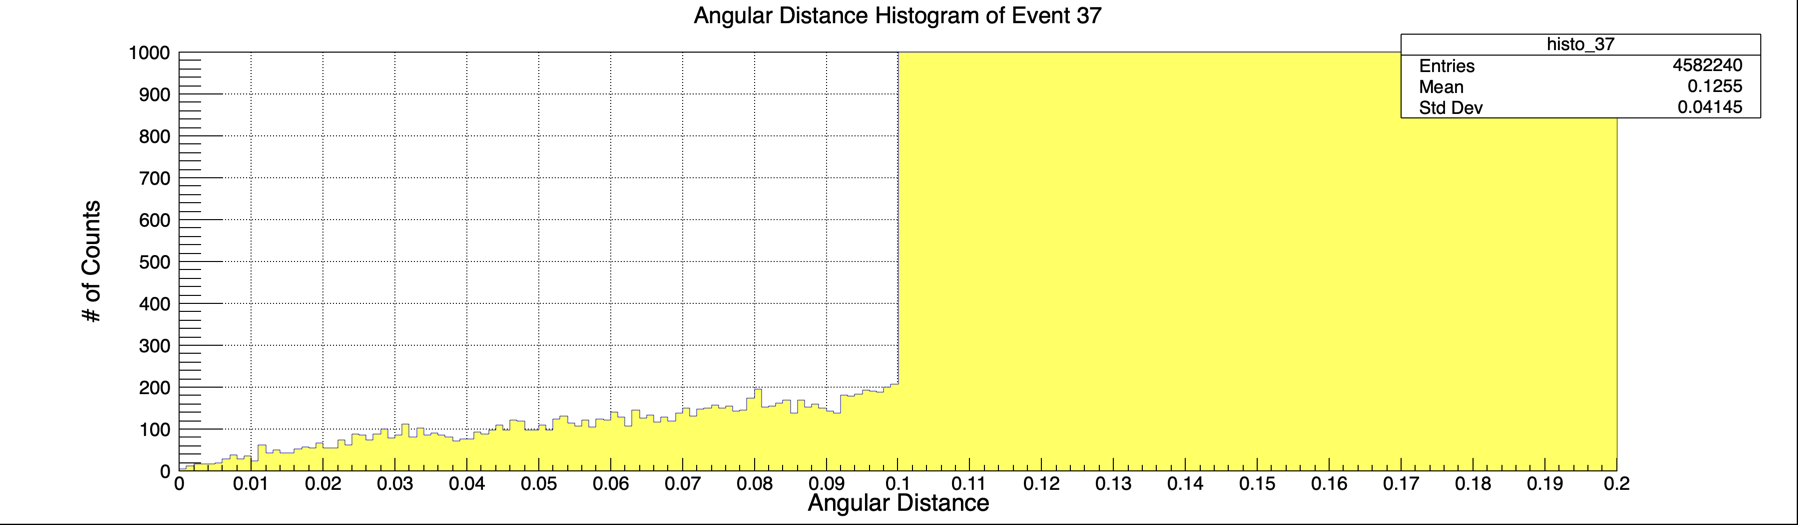
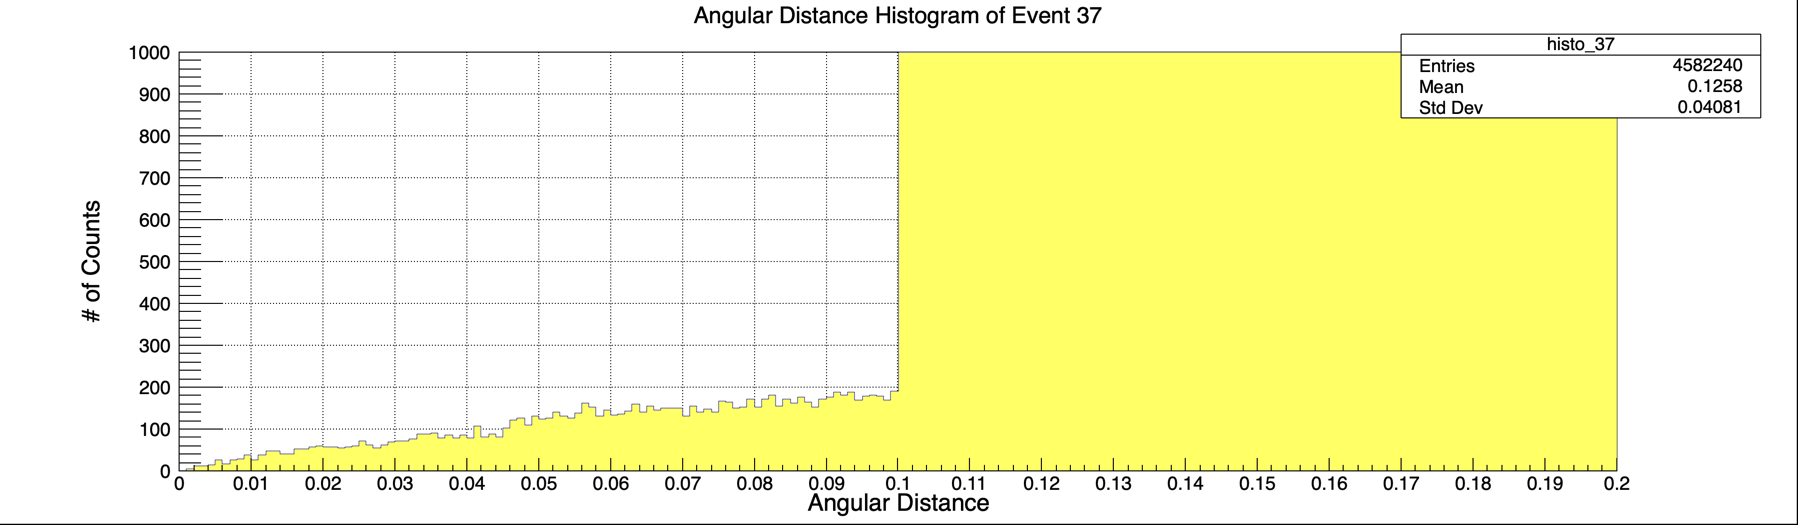
routinely update from work Mac

diff --git a/headers/xyFinding.h b/headers/xyFinding.h
@@ -10,7 +10,7 @@ double gMedian(const TH1D * h1) {
 }
 
 double angularDistance (const int & evt, const vector<myTrackletMember> &t0, const vector<myTrackletMember> &t1) {
-    const int n1 = 300;          // number of bins in [0, 0.1]
+    const int n1 = 100;          // number of bins in [0, 0.1]
     const int n2 = 10;         // number of bins in [0.1, 1.1], [1.1, 2.1], ...
     const int n3 = 8 * n2 + n1; // total number of bins
     float unequal_bins[n3 + 1]; // array of bin edges
@@ -63,14 +63,64 @@ double angularDistance (const int & evt, const vector<myTrackletMember> &t0, con
     h -> GetYaxis() -> SetLabelSize(.04);
     h -> GetYaxis() -> SetTitleOffset(.62);
     h -> GetYaxis() -> CenterTitle(true);
-    h -> GetXaxis() -> SetRangeUser(0, 0.15); // Setting x range;
+    h -> GetXaxis() -> SetRangeUser(0, 0.2); // Setting x range;
     h -> GetYaxis()->SetRangeUser(0, 1000);
     gPad -> SetGrid(1,1); gPad -> Update();
     // gPad -> SetLogx();
     can2 -> SaveAs(Form("./xyFindingPlots/angular_distance_%d.png", evt));
-    // delete can2;
-    // h -> Reset("ICESM");    delete h;   h = 0;
+    delete can2;
+    h -> Reset("ICESM");    delete h;   h = 0;
     
     std::cout << rst << std::endl;
     return rst;
+}
+
+std::pair<double, double> findXY (const int & evt, const vector<myTrackletMember> &t0, const vector<myTrackletMember> &t1, const double &angular_distance_cut, const double &found_z) {
+    TH2D *h_intersection = new TH2D("", "", 900, -4.5, 4.5, 900, -4.5, 4.5);
+    h_intersection -> Sumw2(kFALSE);
+    for (int i = 0; i < t0.size(); i++) {
+        for (int j = 0; j < t1.size(); j++) {
+            double a_d = sqrt(pow(t0[i].eta - t1[j].eta, 2) + pow(t0[i].phi - t1[j].phi, 2));
+            if (a_d <= angular_distance_cut) {
+                double t = (found_z - t0[i].z) / (t1[j].z - t0[i].z);
+                double x_at_found_z = t0[i].x + t * (t1[j].x - t0[i].x);
+                double y_at_found_z = t0[i].y + t * (t1[j].y - t0[i].y);
+                h_intersection -> Fill(x_at_found_z, y_at_found_z);
+            }       
+        }
+    }
+
+    TH1D *h_proj_x = h_intersection -> ProjectionX("h_proj_x");
+    TH1D *h_proj_y = h_intersection -> ProjectionY("h_proj_y");
+    double median_x = gMedian(h_proj_x);
+    double median_y = gMedian(h_proj_y);
+    TCanvas *canvas = new TCanvas("canvas", "Classifier output", 800, 600);
+    h_intersection -> Draw("colz");
+    // h_intersection -> GetYaxis() -> SetRangeUser(-0.1, 0.1);
+    // h_intersection -> GetXaxis() -> SetRangeUser(-0.1, 0.1);
+    h_intersection -> GetXaxis() -> SetTitle("X (cm)");
+    h_intersection -> GetYaxis() -> SetTitle("Y (cm)");
+    h_intersection -> GetYaxis() -> SetTitleOffset(1);
+    h_intersection -> GetXaxis() -> SetTitleSize(0.05);
+    h_intersection -> GetYaxis() -> SetTitleSize(0.05); 
+    h_intersection -> SetTitle(Form("#splitline{Data from event #%d}{      Angular Separation cut at %1.3f}", evt, angular_distance_cut));
+    gStyle -> SetTitleSize(0.032, "t");
+    h_intersection -> GetXaxis() -> CenterTitle(true);
+    h_intersection -> GetYaxis() -> CenterTitle(true);
+    Color_t colorS = kTeal - 7;
+    TMarker *markerS = new TMarker(0, 0, 21); // 8 is the default marker style for TH2D
+    markerS->SetMarkerColor(colorS);
+    h_intersection -> SetMarkerColor(colorS);
+    TLegend *lg = new TLegend(0.12, 0.8, 0.7, 0.9);
+    lg -> AddEntry(markerS, Form("Found x and y vertex at: %1.5f, %1.5f (cm)", median_x, median_y), "P");
+    gStyle -> SetLegendTextSize(.03);
+    lg -> Draw("same");
+    canvas -> SaveAs(Form("xyFindingPlots/event_%d.png", evt));
+    // delete canvas;
+    // h_intersection -> Reset("ICESM");
+    // h_proj_y -> Reset("ICESM");
+    // h_proj_x -> Reset("ICESM");
+    // delete h_intersection;  delete h_proj_x;    delete h_proj_y;
+    // h_intersection = 0; h_proj_x = 0;   h_proj_y = 0;
+    return std::make_pair(median_x, median_y);
 }

diff --git a/INTT_xyFinding.C b/INTT_xyFinding.C
@@ -70,7 +70,7 @@ void single_xyFinding (TTree *EventTree, Int_t target, std::vector<std::string> 
                     // r   = std::sqrt(std::pow(ClusX->at(k), 2) + std::pow(ClusY->at(k), 2));
                     r   = std::sqrt(std::pow(ClusX->at(k) - TruthPV_x->at(0), 2) + std::pow(ClusY->at(k) - TruthPV_y->at(0), 2));
                     phi = std::atan2(ClusY->at(k), ClusX->at(k));
-                    for (int l = 0; l <= 3; l++) {
+                    for (int l = 0; l <= 32; l++) {
                         currentZ         = ClusZ->at(k) + l*0.05;
                         // dZ               = currentZ - foundz[j];
                         dZ               = currentZ - TruthPV_z->at(0);
@@ -94,7 +94,8 @@ void single_xyFinding (TTree *EventTree, Int_t target, std::vector<std::string> 
                 std::cout << evt[j] << "," << event << "," << idx[j] << "," << i << "," 
                           << foundz[j] << "," << TruthPV_z->at(0) << "," << tracklet_layer_0[0].eta << "," << tracklet_layer_1[0].eta
                           << std::endl;
-                double hi = angularDistance(evt[j], tracklet_layer_0, tracklet_layer_1);
+                // double adCut = angularDistance(evt[j], tracklet_layer_0, tracklet_layer_1);
+                std::pair<double, double> found_xy = findXY(evt[j], tracklet_layer_0, tracklet_layer_1, 0.1, foundz[j]);
                 tracklet_layer_0.clear();   tracklet_layer_1.clear();
                 break;
             }

diff --git a/headers/zFinding.h b/headers/zFinding.h
@@ -141,7 +141,7 @@ double DCA_npeaks (const int &evt, const std::vector<myTrackletMember> &t0, cons
     // auto h = std::make_unique<TH1D>("", "", bins, zmin - scanstep/2, zmax + scanstep/2);
     TH1D *h = new TH1D("", "", bins, zmin - scanstep/2, zmax + scanstep/2);
     // Disable the storage of the sum of squares of weights; Save both memory and run time;
-    h->Sumw2(kFALSE);   
+    h->Sumw2(kFALSE);
     for (int i = 0; i < t0.size(); i++) {
         for (int j = 0; j < t1.size(); j++) {
             double dPhi = t0[i].phi - t1[j].phi;
